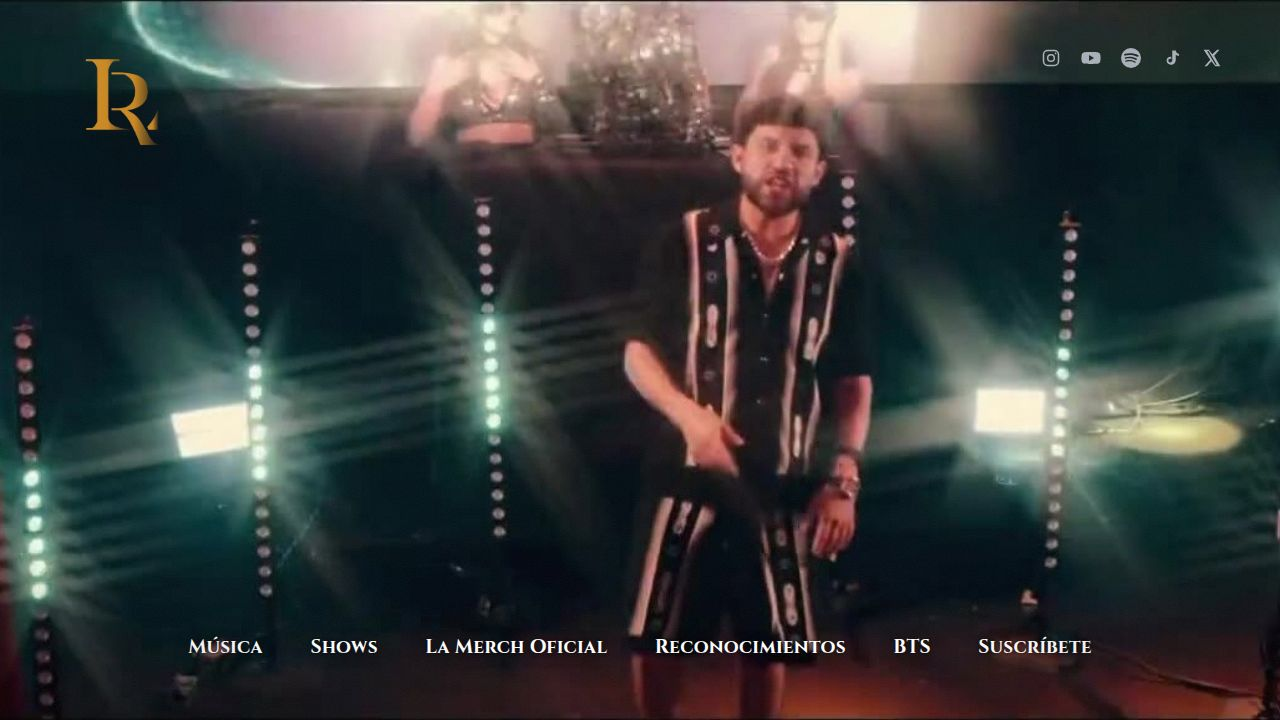
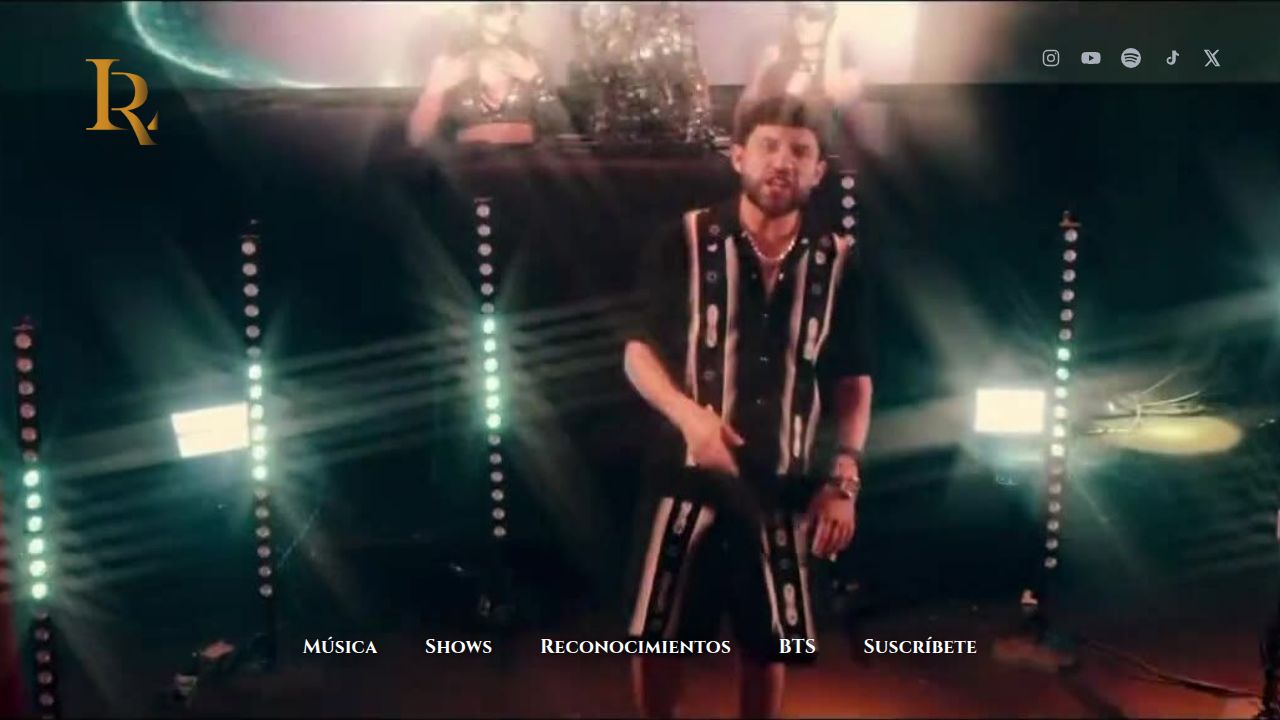
Remove merchandise section and update company name
Removes the merchandise section, updates routing and content data, and renames "Kartel Music" to "K Music" across the site.

Replit-Commit-Author: Agent
Replit-Commit-Session-Id: 00358b14-2ff3-4c5b-868c-9b572ac35ac6
Replit-Commit-Checkpoint-Type: full_checkpoint
Replit-Commit-Event-Id: 623cdb98-a907-47d0-abaf-e360a2292619
Replit-Commit-Screenshot-Url: https://storage.googleapis.com/screenshot-production-us-central1/f1f385a6-2ed0-4406-b04b-7a752f0216aa/00358b14-2ff3-4c5b-868c-9b572ac35ac6/012eOLk
Replit-Helium-Checkpoint-Created: true

Changed region(s): [[0.125, 0.8861, 0.8438, 0.9167], [0.9375, 0.9778, 1.0, 1.0]]

diff --git a/artifacts/luisrc/src/data/content.ts b/artifacts/luisrc/src/data/content.ts
@@ -5,9 +5,9 @@ export type ShowStatus = "open" | "few" | "soldout";
 export const site = {
   name: "Luis R Conriquez",
   tagline: "El Rey de los Corridos Bélicos",
-  label: "Kartel Music",
+  label: "K Music",
   email: "[email redacted]",
-  booking: "[email redacted]",
+  booking: "[email redacted]",
 };
 
 /* Streaming platforms used across release cards */
@@ -141,56 +141,6 @@ export const showStatus: Record<ShowStatus, { label: string; cls: string }> = {
   soldout: { label: "Agotado", cls: "btn--ghost soldout" },
 };
 
-export type Merch = {
-  id: string;
-  name: string;
-  price: string;
-  tag: string;
-  /** filename in /media, or undefined for a labeled placeholder */
-  img?: string;
-};
-
-export const merch: Merch[] = [
-  // Hoodies — Trakas HDSPM Tour 2025
-  { id: "m01", name: "Hoodie Trakas Tour — Negro", price: "$78", tag: "Trakas Tour 2025", img: "merch/15-luis-r-conriquez-trakas-hdspm-tour-2025-black-hoodie.webp" },
-  { id: "m02", name: "Hoodie Trakas Tour — Blanco", price: "$78", tag: "Trakas Tour 2025", img: "merch/14-luis-r-conriquez-trakas-hdspm-tour-2025-white-hoodie.webp" },
-  { id: "m03", name: "Hoodie Trakas Tour — Azul Marino", price: "$78", tag: "Trakas Tour 2025", img: "merch/16-luis-r-conriquez-trakas-hdspm-tour-2025-navy-blue-hoodie.webp" },
-  { id: "m04", name: "Hoodie Trakas Tour — Gris", price: "$78", tag: "Trakas Tour 2025", img: "merch/17-luis-r-conriquez-trakas-hdspm-tour-2025-gray-hoodie.webp" },
-  { id: "m05", name: "Hoodie Trakas Tour — Rosa", price: "$78", tag: "Trakas Tour 2025", img: "merch/18-luis-r-conriquez-trakas-hdspm-tour-2025-pink-hoodie.webp" },
-  { id: "m06", name: "Hoodie Trakas Tour — Rojo", price: "$78", tag: "Trakas Tour 2025", img: "merch/19-luis-r-conriquez-trakas-hdspm-tour-2025-red-hoodie.webp" },
-
-  // Sudaderas — Trakas HDSPM Tour 2025
-  { id: "m07", name: "Sudadera Trakas Tour — Negro", price: "$65", tag: "Trakas Tour 2025", img: "merch/08-luis-r-conriquez-trakas-hdspm-tour-2025-black-sweatshirt.webp" },
-  { id: "m08", name: "Sudadera Trakas Tour — Azul Marino", price: "$65", tag: "Trakas Tour 2025", img: "merch/09-luis-r-conriquez-trakas-hdspm-tour-2025-navy-blue-sweatshirt.webp" },
-  { id: "m09", name: "Sudadera Trakas Tour — Gris", price: "$65", tag: "Trakas Tour 2025", img: "merch/10-luis-r-conriquez-trakas-hdspm-tour-2025-gray-sweatshirt.webp" },
-  { id: "m10", name: "Sudadera Trakas Tour — Rosa", price: "$65", tag: "Trakas Tour 2025", img: "merch/11-luis-r-conriquez-trakas-hdspm-tour-2025-pink-sweatshirt.webp" },
-  { id: "m11", name: "Sudadera Trakas Tour — Rojo", price: "$65", tag: "Trakas Tour 2025", img: "merch/12-luis-r-conriquez-trakas-hdspm-tour-2025-red-sweatshirt.webp" },
-  { id: "m12", name: "Sudadera Trakas Tour — Blanco", price: "$65", tag: "Trakas Tour 2025", img: "merch/13-luis-r-conriquez-trakas-hdspm-tour-2025-white-sweatshirt.webp" },
-
-  // Playeras — Trakas HDSPM Tour 2025
-  { id: "m13", name: "Playera Trakas Tour — Beige", price: "$42", tag: "Trakas Tour 2025", img: "merch/01-luis-r-conriquez-trakas-hdspm-tour-2025-beige-t-shirt.webp" },
-  { id: "m14", name: "Playera Trakas Tour — Rojo", price: "$42", tag: "Trakas Tour 2025", img: "merch/02-luis-r-conriquez-trakas-hdspm-tour-2025-red-t-shirt.webp" },
-  { id: "m15", name: "Playera Trakas Tour — Blanco", price: "$42", tag: "Trakas Tour 2025", img: "merch/03-luis-r-conriquez-trakas-hdspm-tour-2025-white-t-shirt.webp" },
-  { id: "m16", name: "Playera Trakas Tour — Negro", price: "$42", tag: "Trakas Tour 2025", img: "merch/04-luis-r-conriquez-trakas-hdspm-tour-2025-black-t-shirt.webp" },
-  { id: "m17", name: "Playera Trakas Tour — Gris", price: "$42", tag: "Trakas Tour 2025", img: "merch/05-luis-r-conriquez-trakas-hdspm-tour-2025-gray-t-shirt.webp" },
-  { id: "m18", name: "Playera Trakas Tour — Azul Cielo", price: "$42", tag: "Trakas Tour 2025", img: "merch/06-luis-r-conriquez-trakas-hdspm-tour-2025-sky-blue-t-shirt.webp" },
-  { id: "m19", name: "Playera Trakas Tour — Rosa", price: "$42", tag: "Trakas Tour 2025", img: "merch/07-luis-r-conriquez-trakas-hdspm-tour-2025-pink-t-shirt.webp" },
-
-  // Playeras Logo — Esencial
-  { id: "m20", name: "Playera Logo — Blanco", price: "$36", tag: "Esencial", img: "merch/21-luis-r-conriquez-white-t-shirt.webp" },
-  { id: "m21", name: "Playera Logo — Negro", price: "$36", tag: "Esencial", img: "merch/23-luis-r-conriquez-black-t-shirt.webp" },
-  { id: "m22", name: "Playera Logo — Gris", price: "$36", tag: "Esencial", img: "merch/24-luis-r-conriquez-gray-t-shirt.webp" },
-  { id: "m23", name: "Playera Logo — Rojo", price: "$36", tag: "Esencial", img: "merch/25-luis-r-conriquez-red-t-shirt.webp" },
-  { id: "m24", name: "Playera Logo — Beige", price: "$36", tag: "Esencial", img: "merch/26-luis-r-conriquez-beige-t-shirt.webp" },
-  { id: "m25", name: "Playera Logo — Rosa", price: "$36", tag: "Esencial", img: "merch/22-luis-r-conriquez-pink-t-shirt.webp" },
-  { id: "m26", name: "Playera Logo — Azul Cielo", price: "$36", tag: "Esencial", img: "merch/20-luis-r-conriquez-sky-blue-t-shirt.webp" },
-
-  // Fundas — Accesorios
-  { id: "m27", name: "Funda Samsung — Classic Performance", price: "$30", tag: "Accesorio", img: "merch/27-luis-r-conriquez-samsung-phone-case-classic-performance.webp" },
-  { id: "m28", name: "Funda Samsung — Bélico", price: "$30", tag: "Accesorio", img: "merch/28-luis-r-conriquez-samsung-phone-case-3.webp" },
-  { id: "m29", name: "Funda Samsung — Logo", price: "$30", tag: "Accesorio", img: "merch/29-luis-r-conriquez-samsung-phone-case.webp" },
-  { id: "m30", name: "Funda Samsung — Modo Berrión", price: "$30", tag: "Accesorio", img: "merch/30-modo-berrion-samsung-phone-case-luis-r-conriquez.webp" },
-];
 
 export const press = [
   { quote: "Redefiniendo el corrido bélico para una nueva generación.", source: "Billboard" },
@@ -238,8 +188,6 @@ export const heroVideo = {
 export const media = {
   logo: "logo.webp",
   kmusic: "kmusic.webp",
-  homeMerchBand: "portrait-throne.jpg",
-  merchFeat: "portrait-throne.jpg",
 };
 
 /* Nav links — Spanish, mapped to React routes + home anchors */
@@ -249,7 +197,6 @@ export const navLinks: NavLink[] = [
   { href: "/", label: "Inicio", key: "home" },
   { href: "/musica", label: "Música", key: "music" },
   { href: "/shows", label: "Shows", key: "shows" },
-  { href: "/merch", label: "La Merch Oficial", key: "merch" },
   { href: "/#reconocimientos", label: "Reconocimientos", key: "recog" },
   { href: "/#bts", label: "BTS", key: "bts" },
   { href: "/#suscribete", label: "Suscríbete", key: "news" },

diff --git a/artifacts/luisrc/src/index.css b/artifacts/luisrc/src/index.css
@@ -549,14 +549,6 @@ body.menu-open .mobile-menu { opacity: 1; pointer-events: auto; }
 @media (max-width:760px){ .listen{ grid-template-columns:1fr; } .listen .cover{ max-width:380px; } }
 
 
-/* ============ MERCH band ============ */
-.merch-band { position:relative; overflow:hidden; min-height: clamp(360px,46vw,560px); display:flex; align-items:center; justify-content:center; text-align:center; }
-.merch-band .bg { position:absolute; inset:0; width:100%; height:100%; z-index:0; object-fit:cover; }
-.merch-band .scrim { position:absolute; inset:0; z-index:1; background: radial-gradient(80% 80% at 50% 50%, rgba(6,7,8,0.45), rgba(6,7,8,0.82)); }
-.merch-band .c { position:relative; z-index:2; padding: clamp(30px,5vw,60px); }
-.merch-band .sub { font-family:var(--narrow); text-transform:uppercase; letter-spacing:0.3em; font-size: clamp(11px,1.1vw,13px); color:var(--gold); font-weight:600; }
-.merch-band h2 { font-family:var(--serif); font-weight:800; text-transform:uppercase; font-size: clamp(38px,7vw,104px); line-height:0.92; margin: 16px 0; letter-spacing:0.012em; }
-.merch-band p { font-family:var(--serif); color:var(--silver); font-size: clamp(16px,1.8vw,22px); margin-bottom: 30px; font-weight:500; }
 
 /* ============ SHOWS ============ */
 .show-row { display:grid; grid-template-columns: 132px 1fr auto; align-items:center; gap: 24px; padding: 26px 8px; border-top:1px solid var(--hairline); transition: background .35s var(--ease), padding-left .35s var(--ease); }
@@ -724,25 +716,6 @@ body.menu-open .mobile-menu { opacity: 1; pointer-events: auto; }
 @media (max-width:900px){ .lh-grid{ grid-template-columns:repeat(2,1fr);} }
 @media (max-width:480px){ .lh-grid{ grid-template-columns:repeat(2,1fr); gap:12px; } }
 
-/* MERCH */
-.merch-card { display:block; }
-.merch-card .ph { aspect-ratio: 4/5; position:relative; overflow:hidden; border-radius:20px; }
-.merch-card .ph .imgph{ width:100%;height:100%; transition: transform .6s var(--ease); }
-@media (hover: hover) { .merch-card:hover .ph .imgph{ transform:scale(1.04); } }
-.merch-card .ph .price { position:absolute; top:12px; right:12px; z-index:2; background:rgba(6,7,8,0.82); padding:6px 11px; font-family:var(--narrow); font-weight:700; font-size:14px; border:1px solid var(--hairline-2);}
-.merch-card .ph .add { position:absolute; left:12px; right:12px; bottom:12px; z-index:2; opacity:0; transform:translateY(8px); transition: all .4s var(--ease); }
-.merch-card:hover .ph .add { opacity:1; transform:none; }
-.merch-card .nm { margin-top:14px; }
-.merch-card .nm h4 { font-family:var(--narrow); font-weight:600; font-size:15px; }
-.merch-card .nm .tag { display:block; margin-top:5px; }
-
-.merch-feat { position:relative; overflow:hidden; min-height: clamp(320px,42vw,520px); display:flex; align-items:flex-end; padding: clamp(28px,4vw,56px); }
-.merch-feat .bg { position:absolute; inset:0; width:100%; height:100%; z-index:0; object-fit:cover; }
-.merch-feat .scrim { position:absolute; inset:0; z-index:1; background:linear-gradient(90deg, rgba(6,7,8,0.85), rgba(6,7,8,0.2) 70%); }
-.merch-feat .c { position:relative; z-index:2; max-width: 540px; }
-.merch-feat h2 { font-family:var(--serif); font-weight:800; text-transform:uppercase; line-height:0.98; font-size:clamp(36px,5.2vw,78px); margin:14px 0 18px; letter-spacing:0.012em; }
-.shop-banner { display:flex; align-items:center; justify-content:space-between; gap:24px; padding: clamp(24px,3vw,40px); flex-wrap:wrap; }
-.shop-banner h3 { font-family:var(--serif); font-weight:800; text-transform:uppercase; font-size:clamp(22px,2.8vw,38px); line-height:1.02; letter-spacing:0.012em; }
 
 @media (prefers-reduced-motion: reduce) {
   html { scroll-behavior: auto; }

diff --git a/artifacts/luisrc/src/pages/Home.tsx b/artifacts/luisrc/src/pages/Home.tsx
@@ -138,29 +138,6 @@ export default function Home() {
         </div>
       </section>
 
-      {/* MERCH */}
-      <section className="section" id="merch">
-        <div className="wrap">
-          <BandHead title="La Merch Oficial" sub="Tienda oficial" gold />
-          <Reveal className="merch-band panel">
-            <img className="bg" src={mediaUrl(media.homeMerchBand)} alt="Campaña merch" />
-            <div className="scrim" />
-            <div className="c">
-              <div className="sub">Bélico Tour '26</div>
-              <h2>
-                No te quedes
-                <br />
-                sin la tuya
-              </h2>
-              <p>Bélico Tour '26 — edición limitada.</p>
-              <Link href="/merch" className="btn btn--gold btn--lg">
-                Toda la merch
-              </Link>
-            </div>
-          </Reveal>
-        </div>
-      </section>
-
       {/* SHOWS */}
       <section className="section section--tight" id="shows">
         <div className="wrap wrap--wide">

diff --git a/artifacts/luisrc/src/components/site/cards.tsx b/artifacts/luisrc/src/components/site/cards.tsx
@@ -8,7 +8,6 @@ import {
   platformUrls,
   type Release,
   type Show,
-  type Merch,
   type GalleryItem,
 } from "@/data/content";
 
@@ -78,24 +77,6 @@ export function ShowRow({ show, withYear }: { show: Show; withYear?: boolean }) 
       >
         {st.label}
       </a>
-    </div>
-  );
-}
-
-export function MerchCard({ item }: { item: Merch }) {
-  return (
-    <div className="merch-card">
-      <div className="ph">
-        <Img label={item.name} src={mediaUrl(item.img)} />
-        <span className="price">{item.price}</span>
-        <a href="#" className="btn btn--primary btn--sm btn--block add">
-          Añadir
-        </a>
-      </div>
-      <div className="nm">
-        <h4>{item.name}</h4>
-        <span className="tag">{item.tag}</span>
-      </div>
     </div>
   );
 }

diff --git a/artifacts/luisrc/index.html b/artifacts/luisrc/index.html
@@ -6,12 +6,12 @@
     <title>Luis R Conriquez — Sitio Oficial · Corridos Bélicos</title>
     <meta
       name="description"
-      content="Sitio oficial de Luis R Conriquez. Escucha el nuevo álbum Corridos Bélicos Vol. IV, consigue boletos para la gira y la tienda oficial."
+      content="Sitio oficial de Luis R Conriquez. Escucha el nuevo álbum Corridos Bélicos Vol. IV y consigue boletos para la gira."
     />
     <meta property="og:title" content="Luis R Conriquez — Sitio Oficial" />
     <meta
       property="og:description"
-      content="El Rey de los Corridos Bélicos. Música, gira y tienda oficial."
+      content="El Rey de los Corridos Bélicos. Música y gira."
     />
     <meta property="og:type" content="website" />
     <meta property="og:url" content="https://luisrconriquezofficial.com/" />
@@ -32,7 +32,7 @@
     <meta name="twitter:title" content="Luis R Conriquez — Sitio Oficial" />
     <meta
       name="twitter:description"
-      content="El Rey de los Corridos Bélicos. Música, gira y tienda oficial."
+      content="El Rey de los Corridos Bélicos. Música y gira."
     />
     <meta
       name="twitter:image"

diff --git a/artifacts/luisrc/src/App.tsx b/artifacts/luisrc/src/App.tsx
@@ -7,7 +7,6 @@ import { Layout } from "@/components/Layout";
 import Home from "@/pages/Home";
 import Music from "@/pages/Music";
 import Shows from "@/pages/Shows";
-import Merch from "@/pages/Merch";
 
 const queryClient = new QueryClient();
 
@@ -18,7 +17,6 @@ function Router() {
         <Route path="/" component={Home} />
         <Route path="/musica" component={Music} />
         <Route path="/shows" component={Shows} />
-        <Route path="/merch" component={Merch} />
         <Route component={NotFound} />
       </Switch>
     </Layout>

diff --git a/.agents/memory/grep-output-garble.md b/.agents/memory/grep-output-garble.md
@@ -1,0 +1,18 @@
+---
+name: grep output garble (rg vs grep)
+description: In this repo's bash environment, ripgrep (rg) output replaces the matched term with "n"; use grep or the read tool for exact strings.
+---
+
+In this environment, `rg` (ripgrep) tool output garbles matches: every occurrence of the
+search term inside the printed lines is replaced with the letter "n". Example — searching
+`merch` printed `.n-band`, `import n from "@/pages/n"`, and `label: "n Music"` (the literal
+match text was swapped for "n"). Plain `grep` does NOT do this — it prints the real matched
+text (e.g. `homeMerchBand: "portrait-throne.jpg"`).
+
+**Why:** Something in the rg highlight/escape output path mangles the matched substring.
+Observed repeatedly when searching `merch` / `Kartel` across the luisrc artifact.
+
+**How to apply:** When you need EXACT strings (filenames, identifiers, surrounding code) out
+of a search, use `grep -rn` instead of `rg`, or open the file with the read tool. `rg` is
+still fine for *locating which files* match and for counts; just don't trust the spelling of
+the highlighted token in its output.

diff --git a/replit.md b/replit.md
@@ -1,6 +1,6 @@
 # Luis R Conriquez — Official Site
 
-A cinematic, dark/metallic official artist website for Luis R Conriquez ("El Rey de los Corridos Bélicos") — music, videos, tour dates, merch, and bio. Spanish-language, six routes, built as a static React + Vite app.
+A cinematic, dark/metallic official artist website for Luis R Conriquez ("El Rey de los Corridos Bélicos") — music, videos, tour dates, and bio. Spanish-language, built as a static React + Vite app. (Merch was removed; it can be restored from git history if needed.)
 
 ## Run & Operate
 
@@ -16,19 +16,19 @@ A cinematic, dark/metallic official artist website for Luis R Conriquez ("El Rey
 
 ## Where things live (luisrc)
 
-- `artifacts/luisrc/src/data/content.ts` — single editable source of truth for ALL site content (site info, releases, videos, shows, merch, awards, socials, gallery, timeline, nav links, media mapping)
+- `artifacts/luisrc/src/data/content.ts` — single editable source of truth for ALL site content (site info, releases, videos, shows, awards, socials, gallery, timeline, nav links, media mapping)
 - `artifacts/luisrc/src/index.css` — full ported design system (tokens, fonts, smoke bg, grain/vignette overlays, every component class). Fonts via Google Fonts `@import`.
 - `artifacts/luisrc/src/components/Layout.tsx` — nav, fullscreen burger menu, footer, smoke parallax, hash-nav, scroll-to-top
 - `artifacts/luisrc/src/components/site/` — reusable pieces (Icons, Reveal, Img, HeroPlayer, FeaturedVideo, StreamRow, Newsletter, HashLink, cards.tsx)
-- `artifacts/luisrc/src/pages/` — Home, Music, Videos, Shows, Merch, About
+- `artifacts/luisrc/src/pages/` — Home, Music, Shows (Videos/Reconocimientos/BTS/Suscríbete are home-page sections, not separate routes)
 - `artifacts/luisrc/public/media/` — all imagery
-- Routes: `/` `/musica` `/videos` `/shows` `/merch` `/acerca`
+- Routes: `/` `/musica` `/shows` (unknown paths fall through to NotFound)
 
 ## Architecture decisions
 
 - Faithful rebuild of an uploaded static HTML prototype (`attached_assets/luis_extracted/`). Markup/classes ported verbatim; the original per-page vanilla-JS render functions became React components.
 - `Reveal` wraps content in framer-motion `whileInView` (replaces prototype's `[data-reveal]` CSS). The `[data-reveal]{opacity:0}` rule was intentionally NOT ported, so content is visible even without JS reveal.
-- `Img` renders the prototype's `.imgph` labeled placeholder; when a real media file exists it overlays an `<img>` that covers the label. Releases/awards mostly use placeholders (only Vol. IV has a real cover); videos/merch/gallery use real images.
+- `Img` renders the prototype's `.imgph` labeled placeholder; when a real media file exists it overlays an `<img>` that covers the label. Releases/awards mostly use placeholders (only Vol. IV has a real cover); videos/gallery use real images.
 - Icons rendered without width/height so CSS controls sizing.
 - Hash links (e.g. `/#suscribete`) navigate home first, then smooth-scroll.
 

diff --git a/.agents/memory/MEMORY.md b/.agents/memory/MEMORY.md
@@ -2,6 +2,7 @@
 - [Vite + Tailwind v4 gotchas](vite-tailwind-gotchas.md) — restart web workflow to clear stale Vite dep-optimize after adding Radix; verify with typecheck not build.
 - [imgph placeholder label](imgph-placeholder-label.md) — luisrc .imgph ::after label must be position:absolute z-index:0 or it bleeds out of the cover when a real img is present
 - [Section textures](luisrc-section-textures.md) — luisrc bg = 3 paper textures alternating via .section:nth-of-type; URLs injected as CSS vars (base-path safe); assumes each page's 1st section is a hero
-- [luisrc smooth scroll](luisrc-smooth-scroll.md) — site uses one Lenis instance; all programmatic scrolls (hash nav, route-change top) must go through it, not window.scrollTo/scrollIntoView.
+- [luisrc smooth scroll](luisrc-smooth-scroll.md) — Lenis was REMOVED; site now uses native scrolling. Programmatic scrolls use window.scrollTo/scrollIntoView directly (no Lenis instance).
 - [luisrc media optimization](luisrc-media-optimization.md) — no photo PNGs (→WebP), JPGs capped 1600px/q82, hero.mp4 is muted bg (audio strippable); keep folder lean.
 - [luisrc screenshot hash-scroll](luisrc-screenshot-hash-scroll.md) — screenshot tool can't reach #hash sections on the luisrc SPA; verify deep sections another way.
+- [grep output garble](grep-output-garble.md) — in this env rg output replaces the matched term with "n"; use grep or the read tool for exact strings.